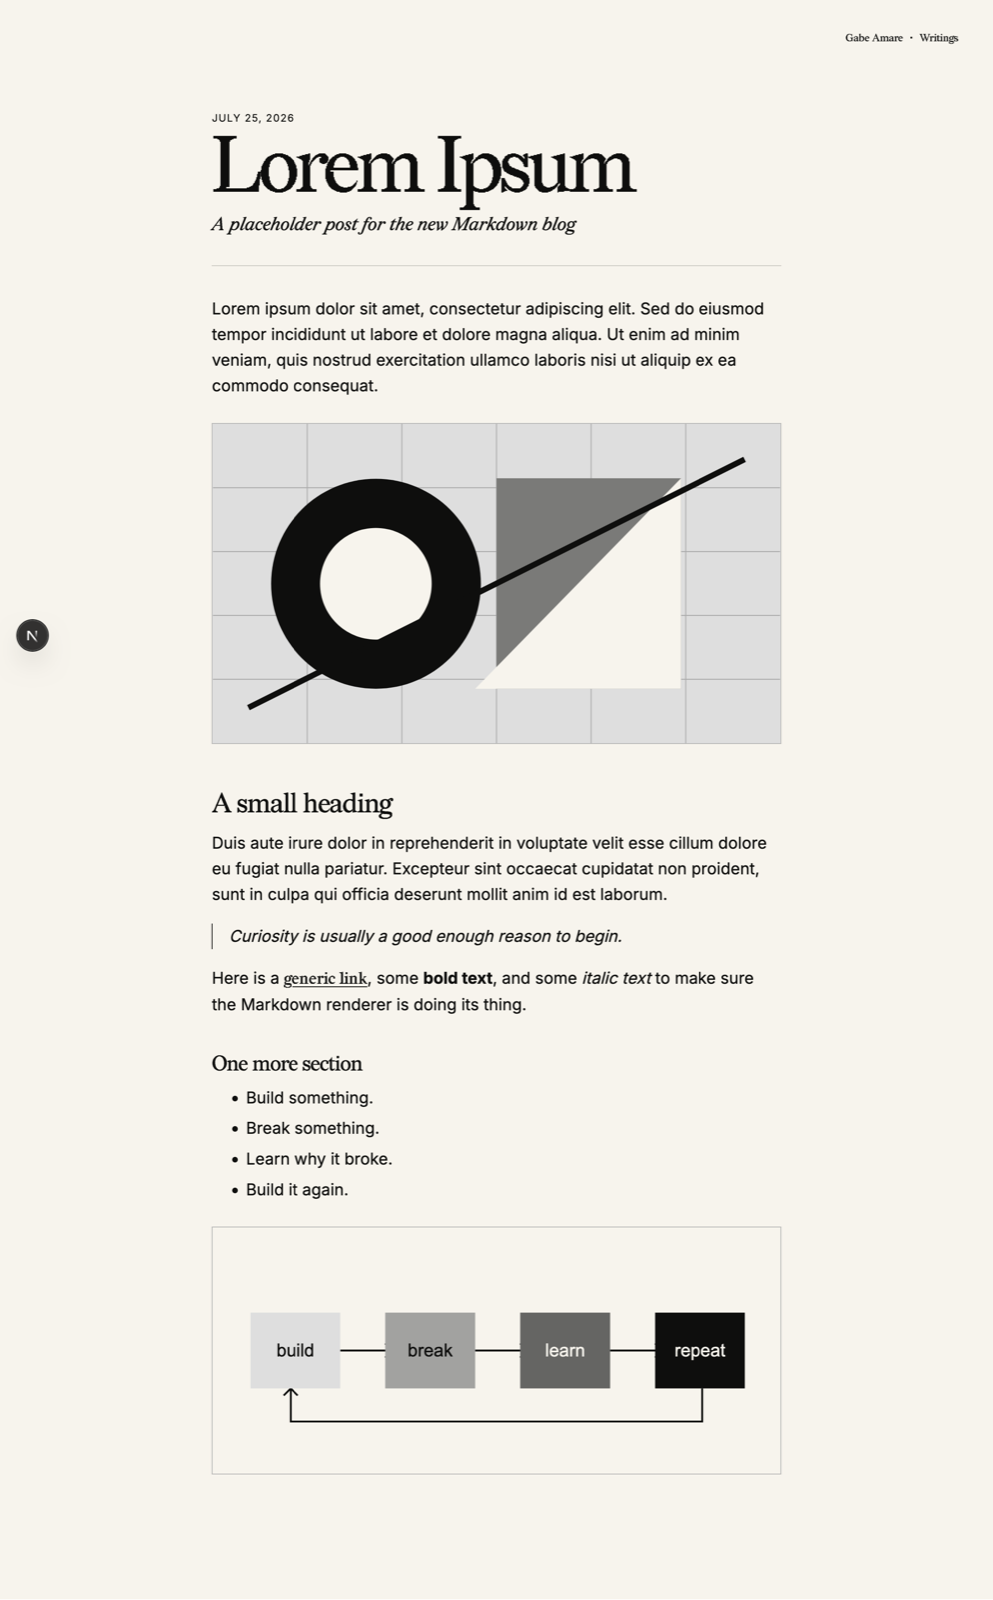
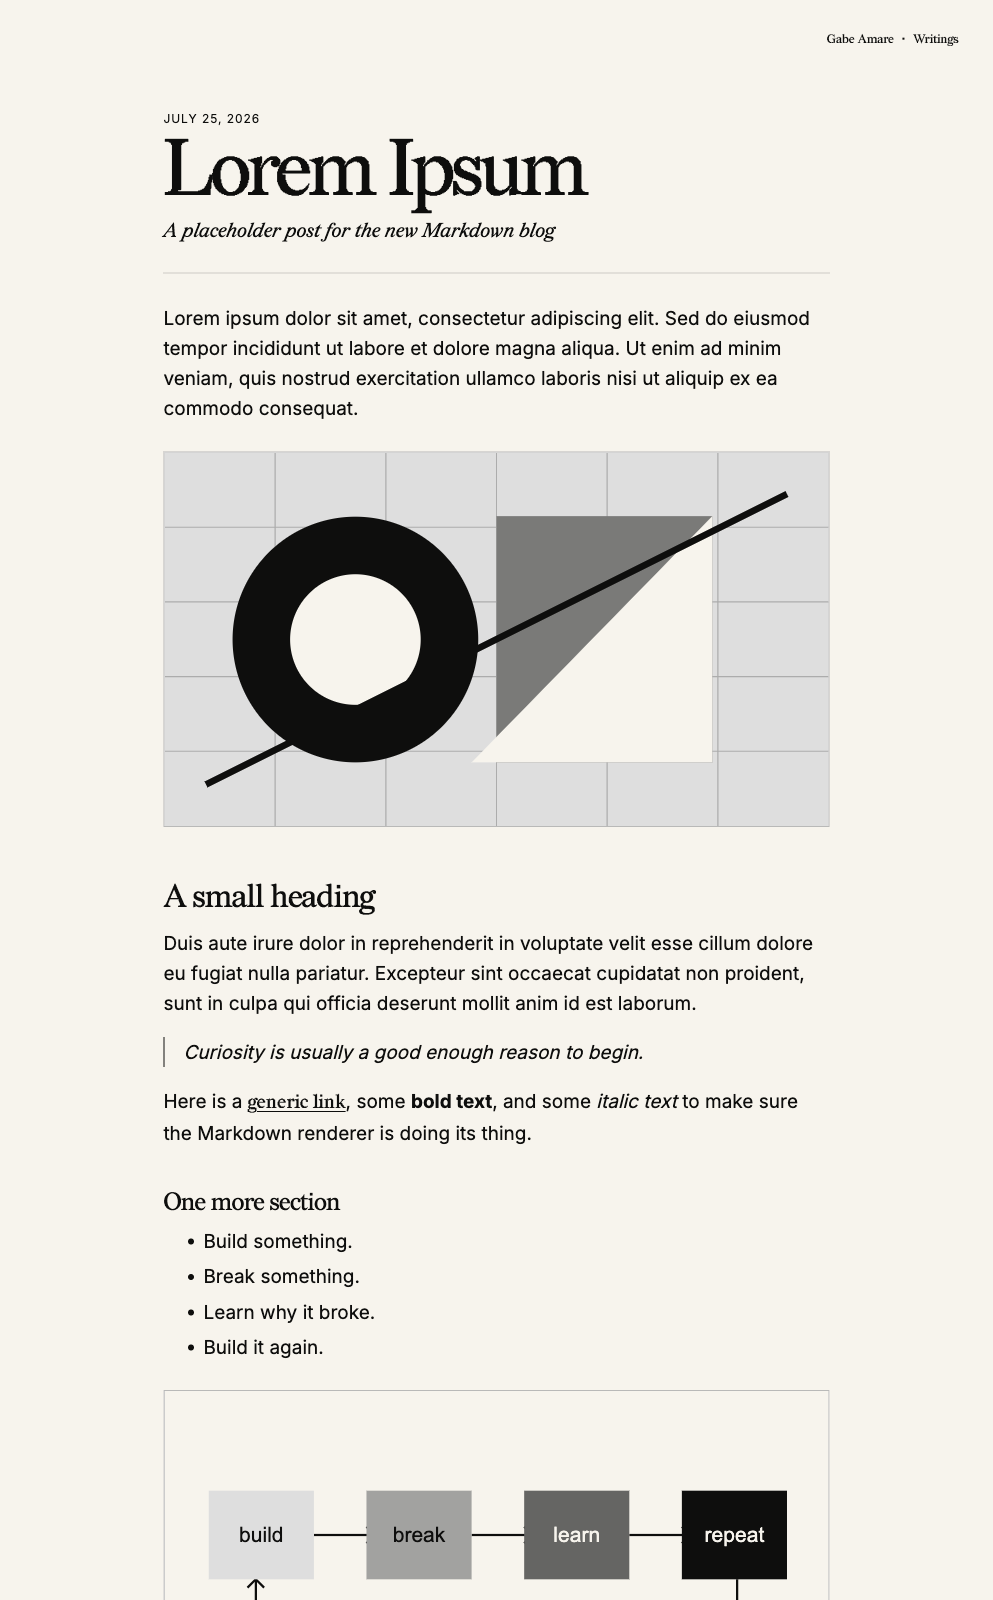
Refresh site screenshots and project notes

diff --git a/README.md b/README.md
@@ -4,7 +4,7 @@ this is my personal site.
 
 it is a site, with stuff on it, im going to write a few blogs like soon as in next week or so, so pretty lit
 
-![a quick scroll through gabeamare(dot)net](.github/assets/site-demo.gif)
+![gabeamare(dot)net loading into the home page](.github/assets/site-demo.gif)
 
 <details>
   <summary>the still frames</summary>
@@ -16,11 +16,12 @@ it is a site, with stuff on it, im going to write a few blogs like soon as in ne
 
 ## details
 
-- the design was done in Figma, I found this font, Redaction, on Instagram Reels, and it was cool, so I used it.
-- GitHub and Hackatime contribution graphs are live, grayscale, and clickable from one year down to one week
+- the landing page is an electric-blue panel grid set in PP Neue Montreal. the writings still use Redaction and Inter.
+- GitHub and Hackatime activity is live, rendered as binary WebGL grids, and clickable from one year down to one week
+- the loading field is drawn from quadratic residues on canvas; `/loaders` has the two live studies
 - writings are just Markdown files in [`content/writings`](content/writings)
 - drafts are real drafts: written and hidden, codex made a fun little 404 without asking me, I lowk rock with it so yeh.
-- Design is me, all me. implmentation was all codex.
+- Design is me, all me. implementation was all codex.
 
 ## run it
 
